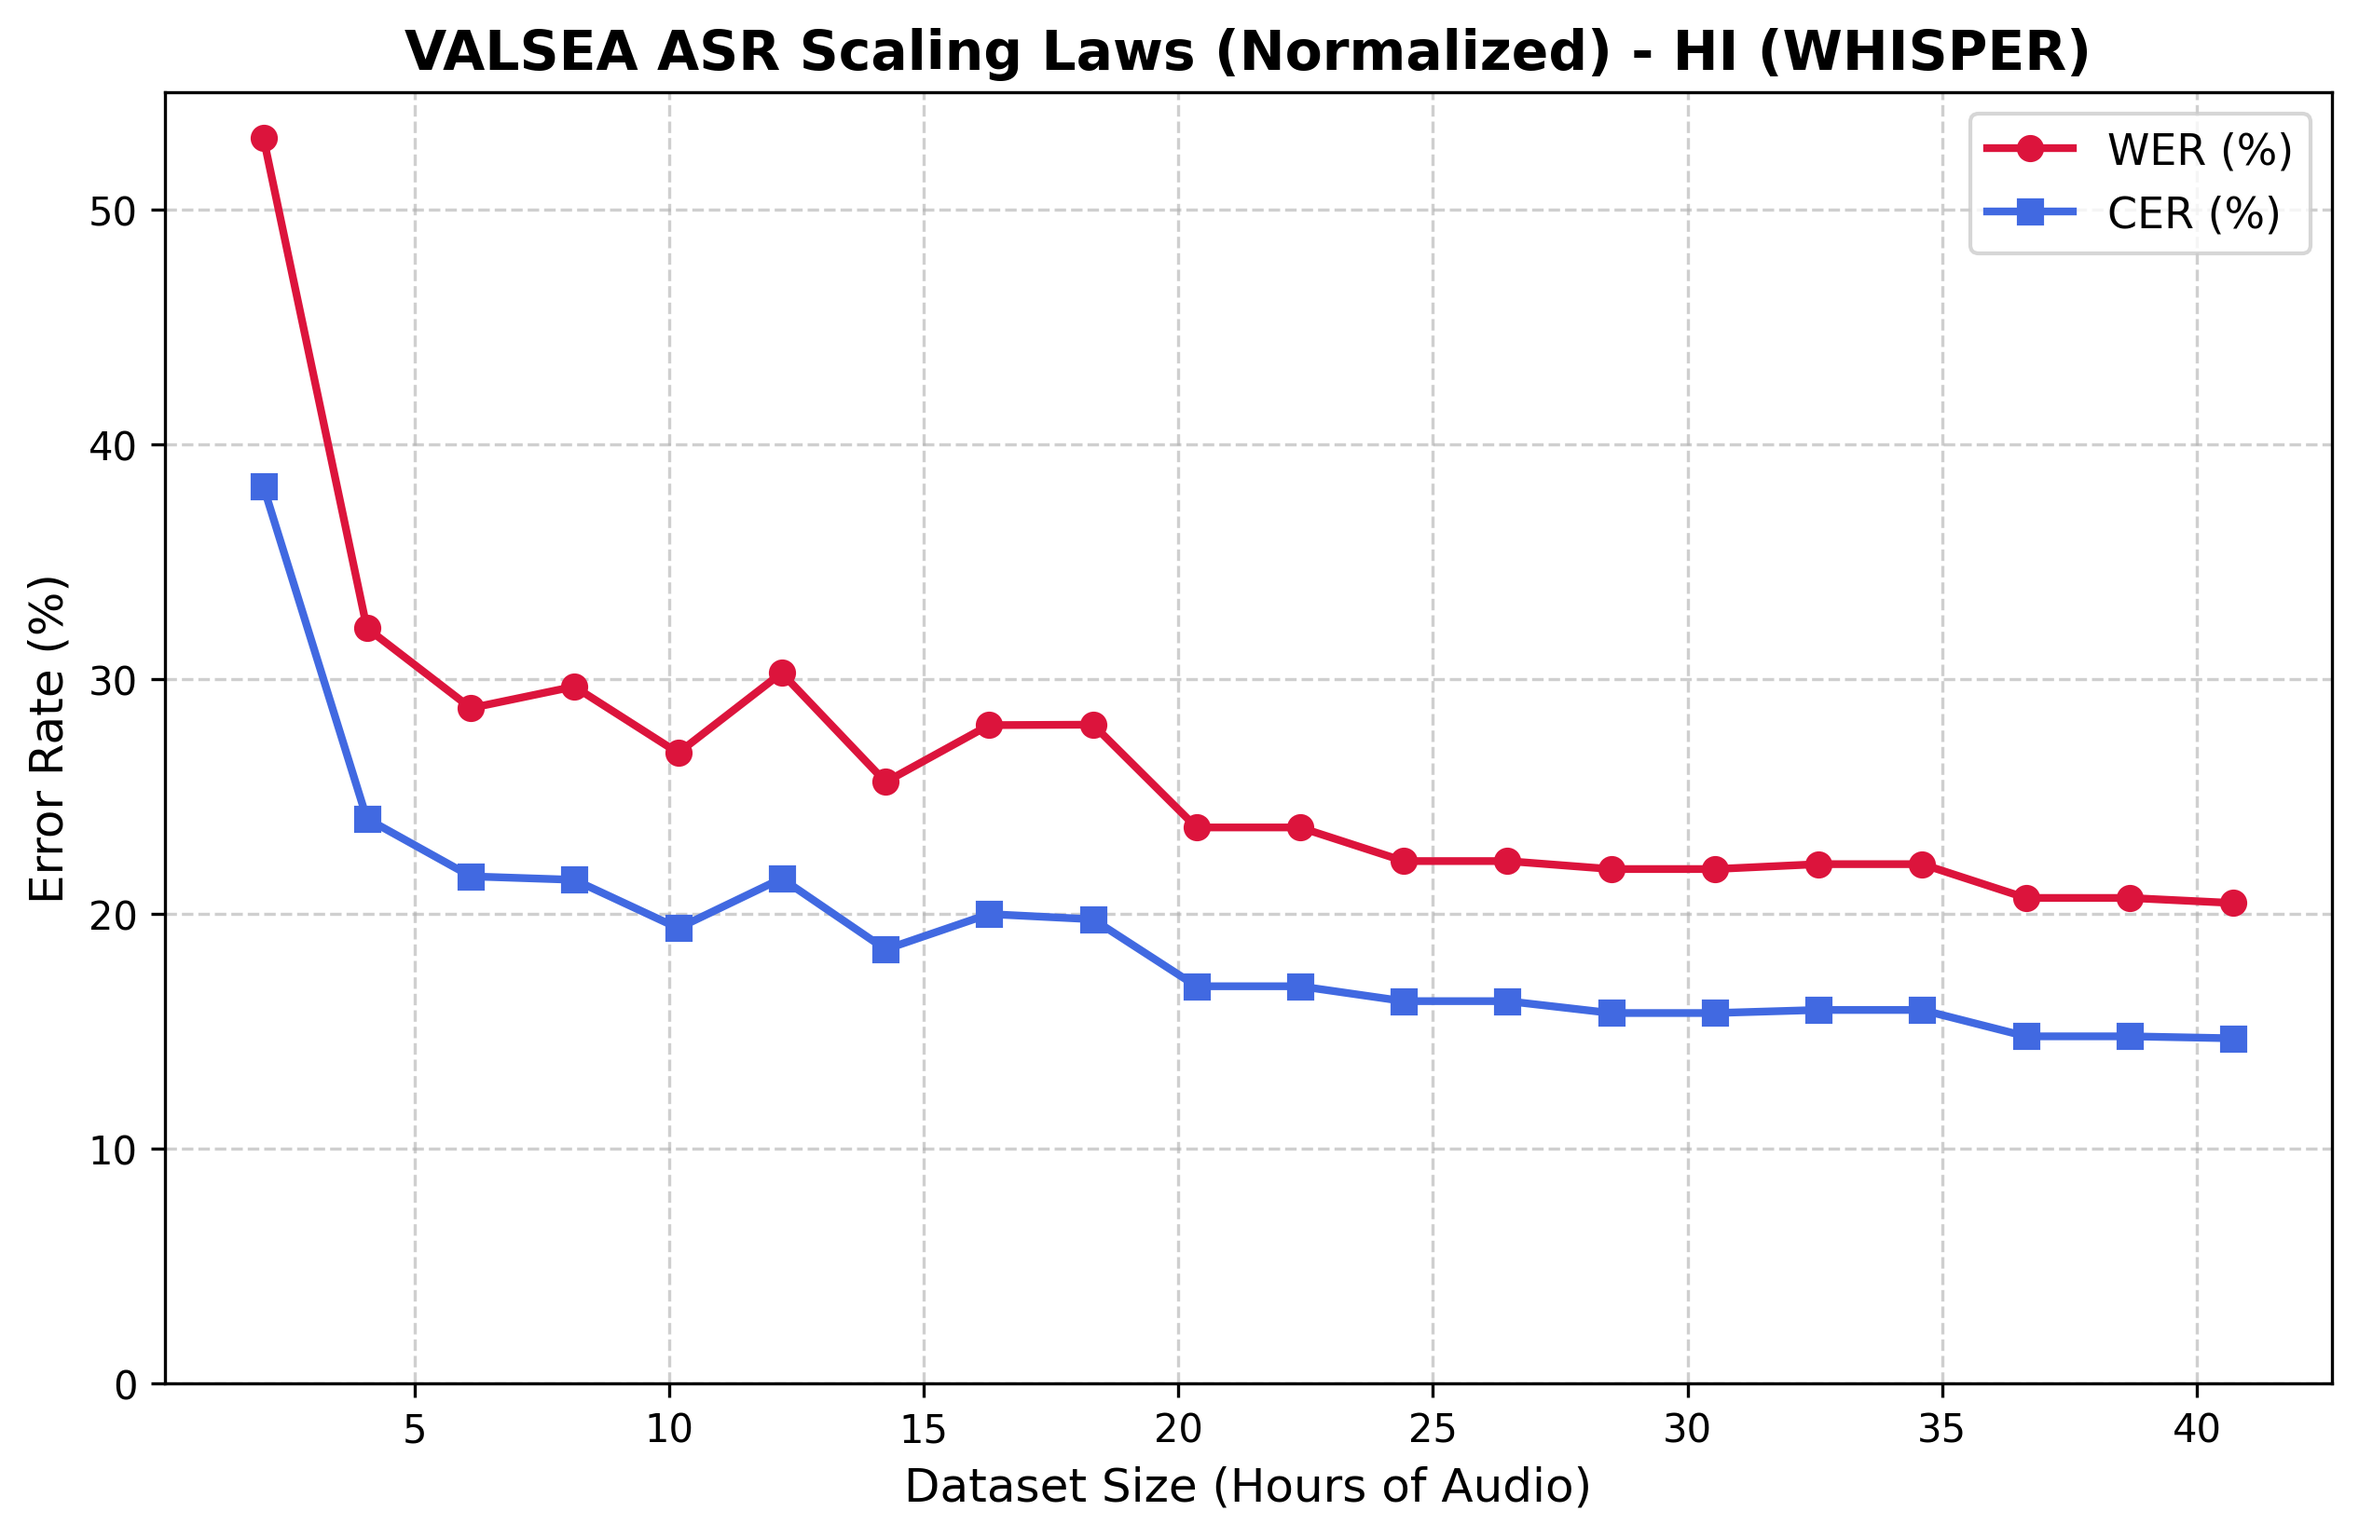
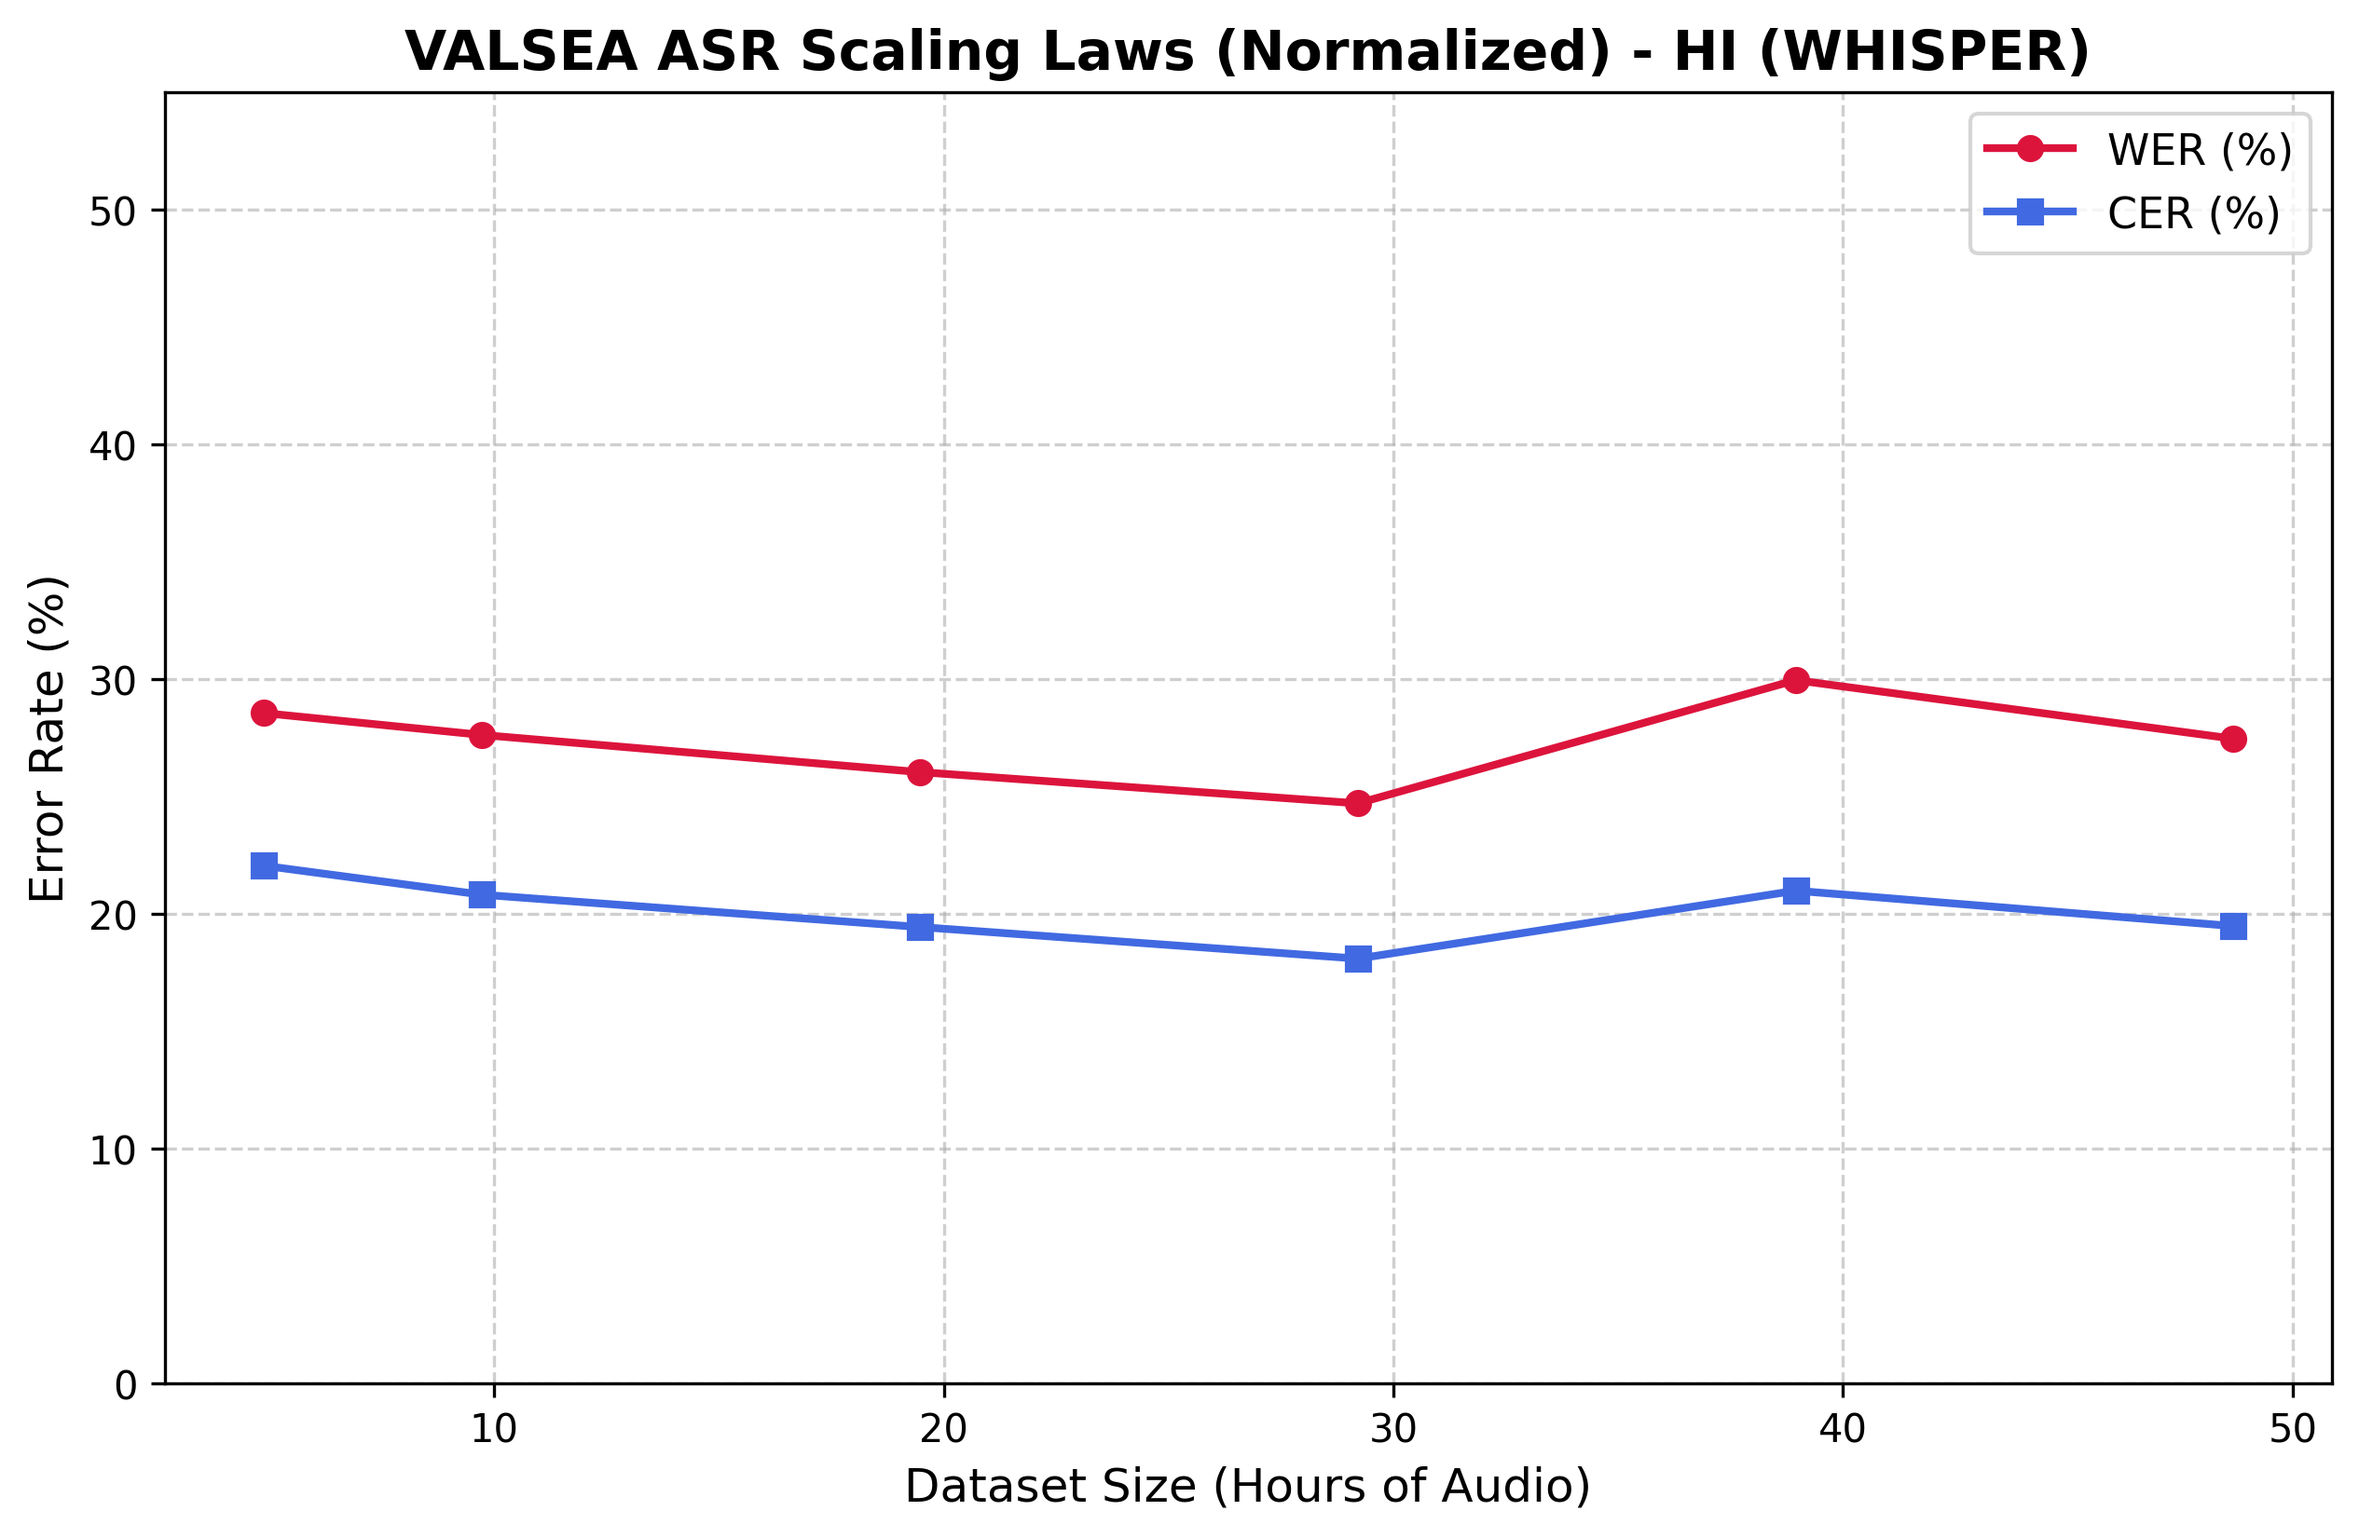
doc: update scaling gradient analysis and normalized stats plots

diff --git a/benchmark/plot_gradients.py b/benchmark/plot_gradients.py
@@ -40,7 +40,7 @@ def plot_gradients_for_lang(lang: str):
     axes[0].set_xlabel('Dataset Size (Hours)', fontsize=10)
     axes[0].set_ylabel('Error Rate (%)', fontsize=10)
     axes[0].grid(True, linestyle='--', alpha=0.6)
-    axes[0].set_ylim(0, 55)
+    axes[0].set_ylim(min(wer.min(), cer.min()) - 5, max(wer.max(), cer.max()) + 5)
     axes[0].legend(fontsize=10)
 
     # Panel 2: First Derivative (Gradient)
@@ -51,7 +51,7 @@ def plot_gradients_for_lang(lang: str):
     axes[1].set_xlabel('Dataset Size (Hours)', fontsize=10)
     axes[1].set_ylabel('Change per Hour (% / h)', fontsize=10)
     axes[1].grid(True, linestyle='--', alpha=0.6)
-    axes[1].set_ylim(-11, 2)
+    axes[1].set_ylim(min(d1_wer.min(), d1_cer.min()) - 0.2, max(d1_wer.max(), d1_cer.max()) + 0.2)
     axes[1].legend(fontsize=10)
 
     # Panel 3: Second Derivative (Curvature / Acceleration)
@@ -62,10 +62,10 @@ def plot_gradients_for_lang(lang: str):
     axes[2].set_xlabel('Dataset Size (Hours)', fontsize=10)
     axes[2].set_ylabel('Rate of Change per Hour (% / h²)', fontsize=10)
     axes[2].grid(True, linestyle='--', alpha=0.6)
-    axes[2].set_ylim(-1, 3)
+    axes[2].set_ylim(min(d2_wer.min(), d2_cer.min()) - 0.05, max(d2_wer.max(), d2_cer.max()) + 0.05)
     axes[2].legend(fontsize=10)
 
-    plt.suptitle(f"ASR Scaling Laws Gradient Analysis - {lang.upper()} (Whisper-Tiny)", fontsize=16, fontweight='bold', y=1.02)
+    plt.suptitle(f"ASR Scaling Laws Gradient Analysis - {lang.upper()} (Whisper-Large-v3-Turbo)", fontsize=16, fontweight='bold', y=1.02)
     plt.tight_layout()
 
     output_dir = "outputs/benchmark/normalized_stats"
